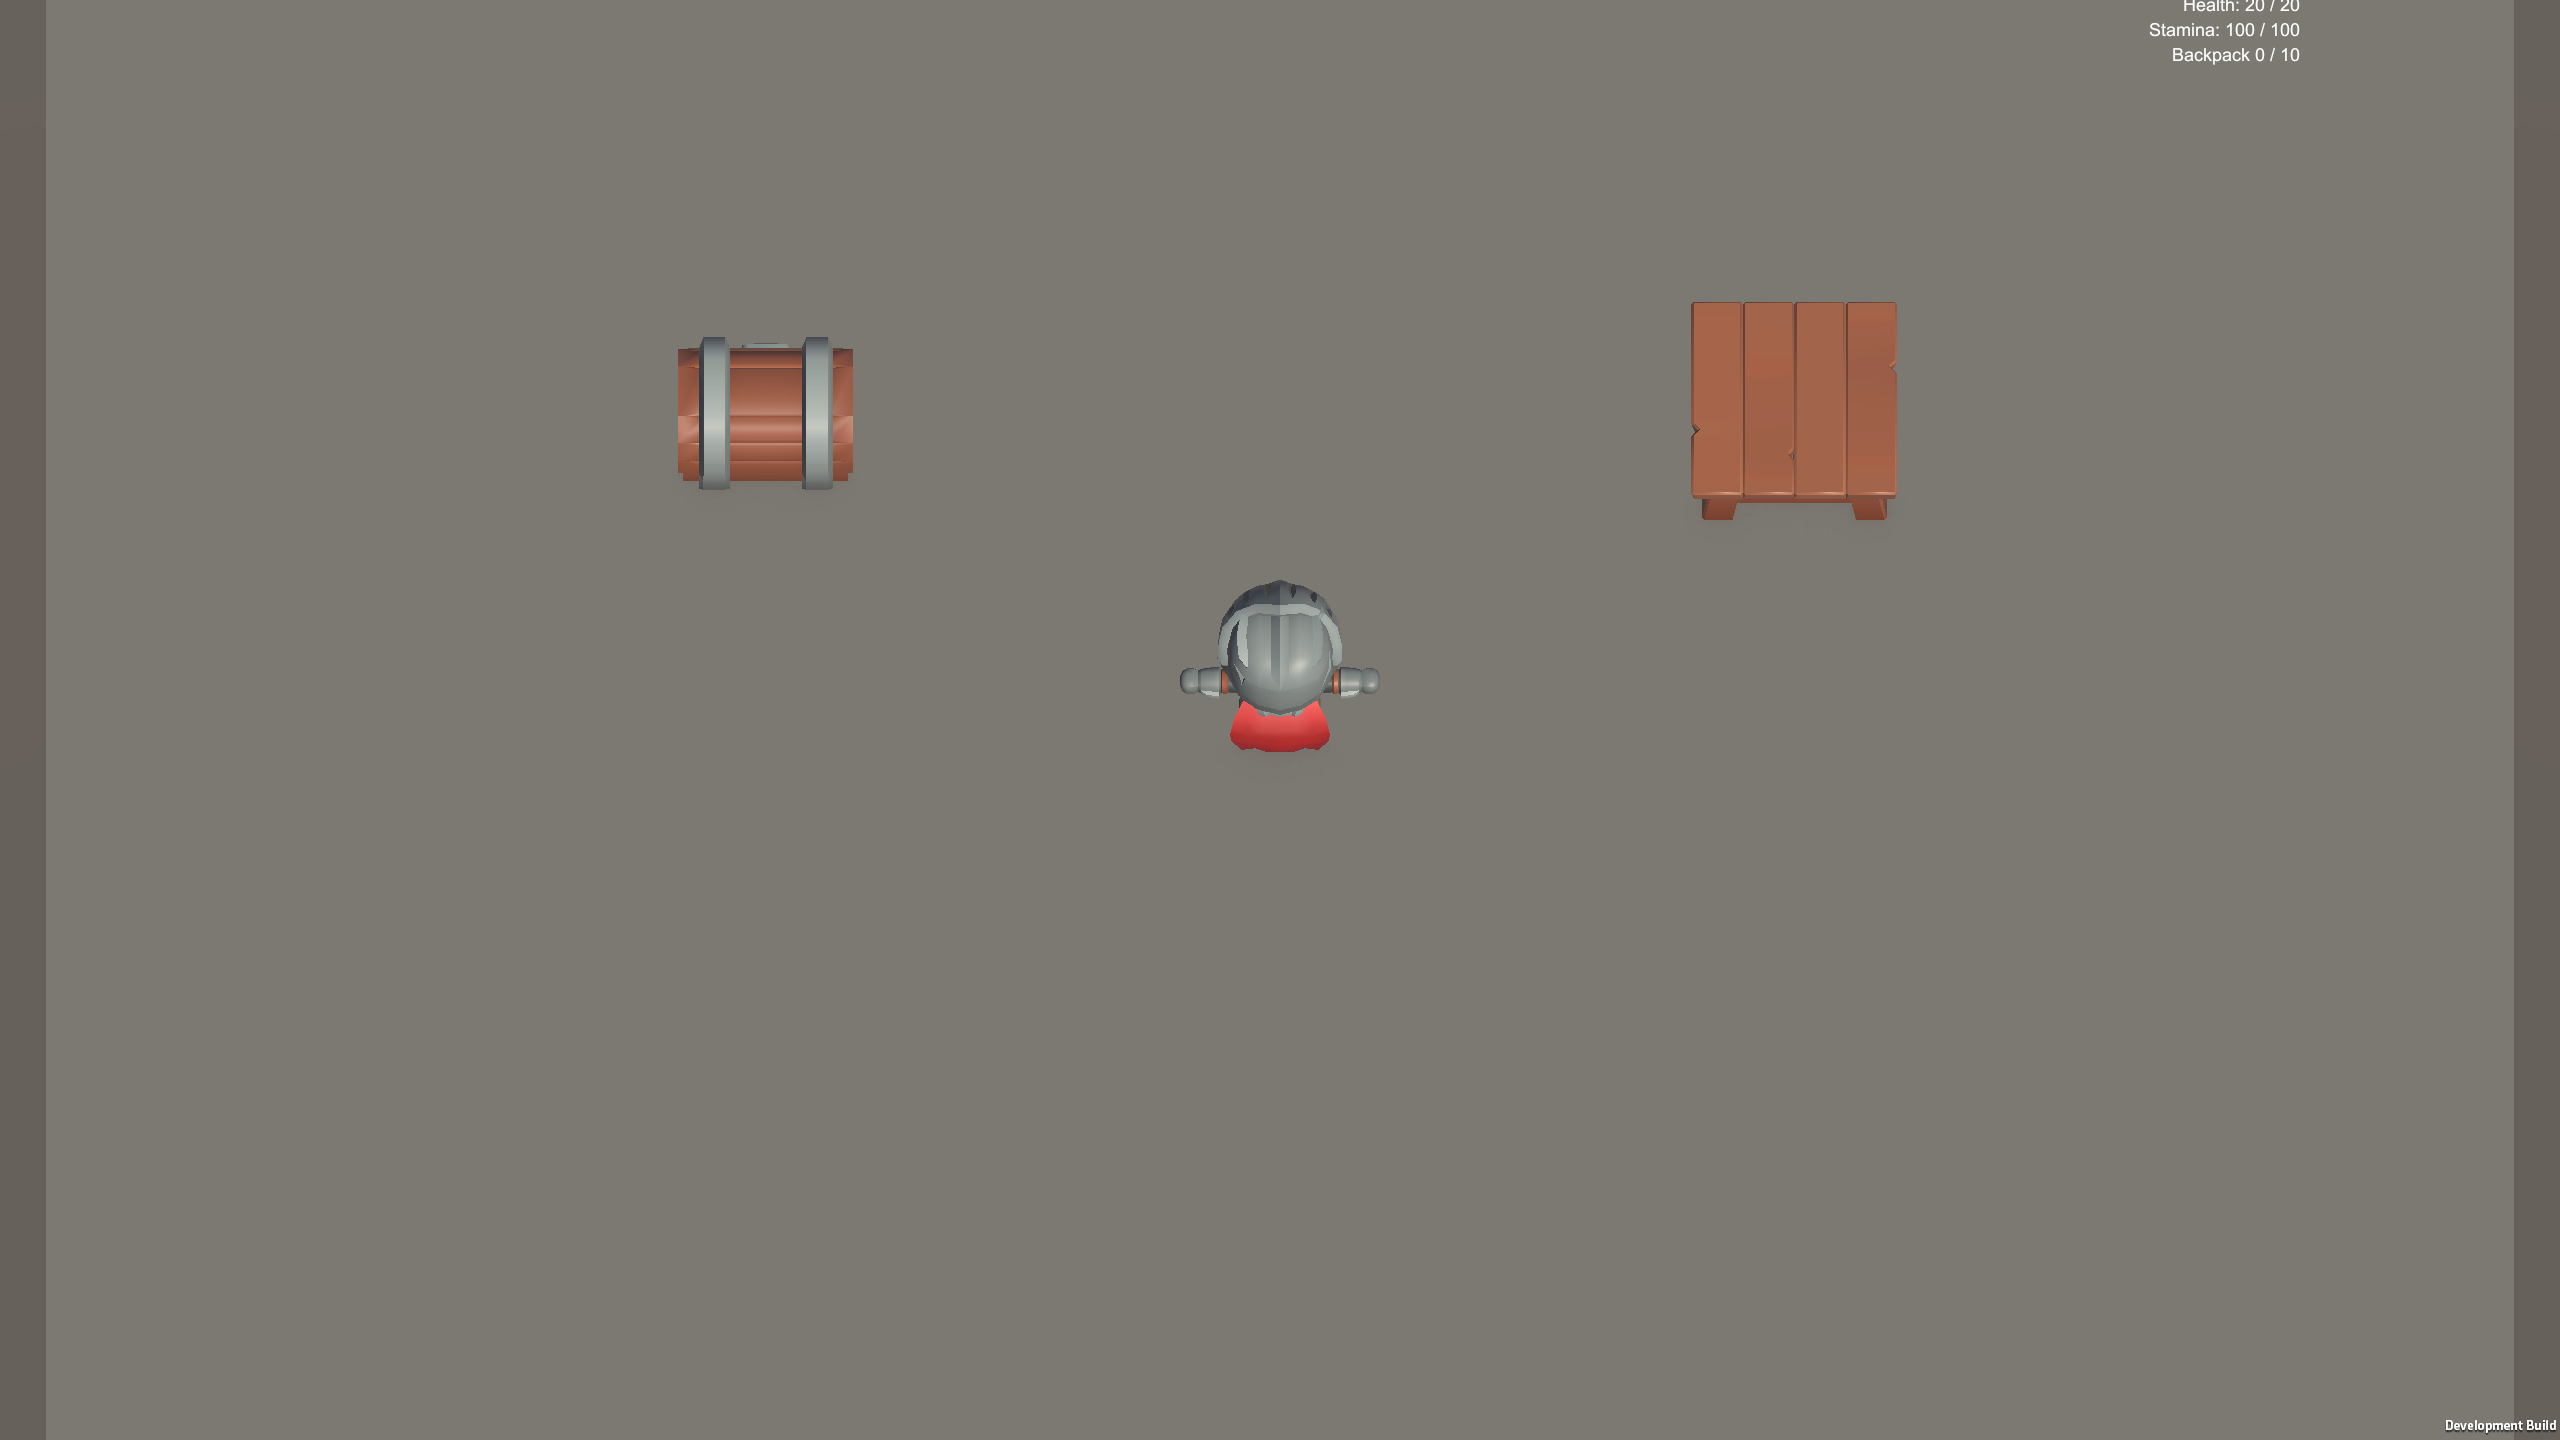
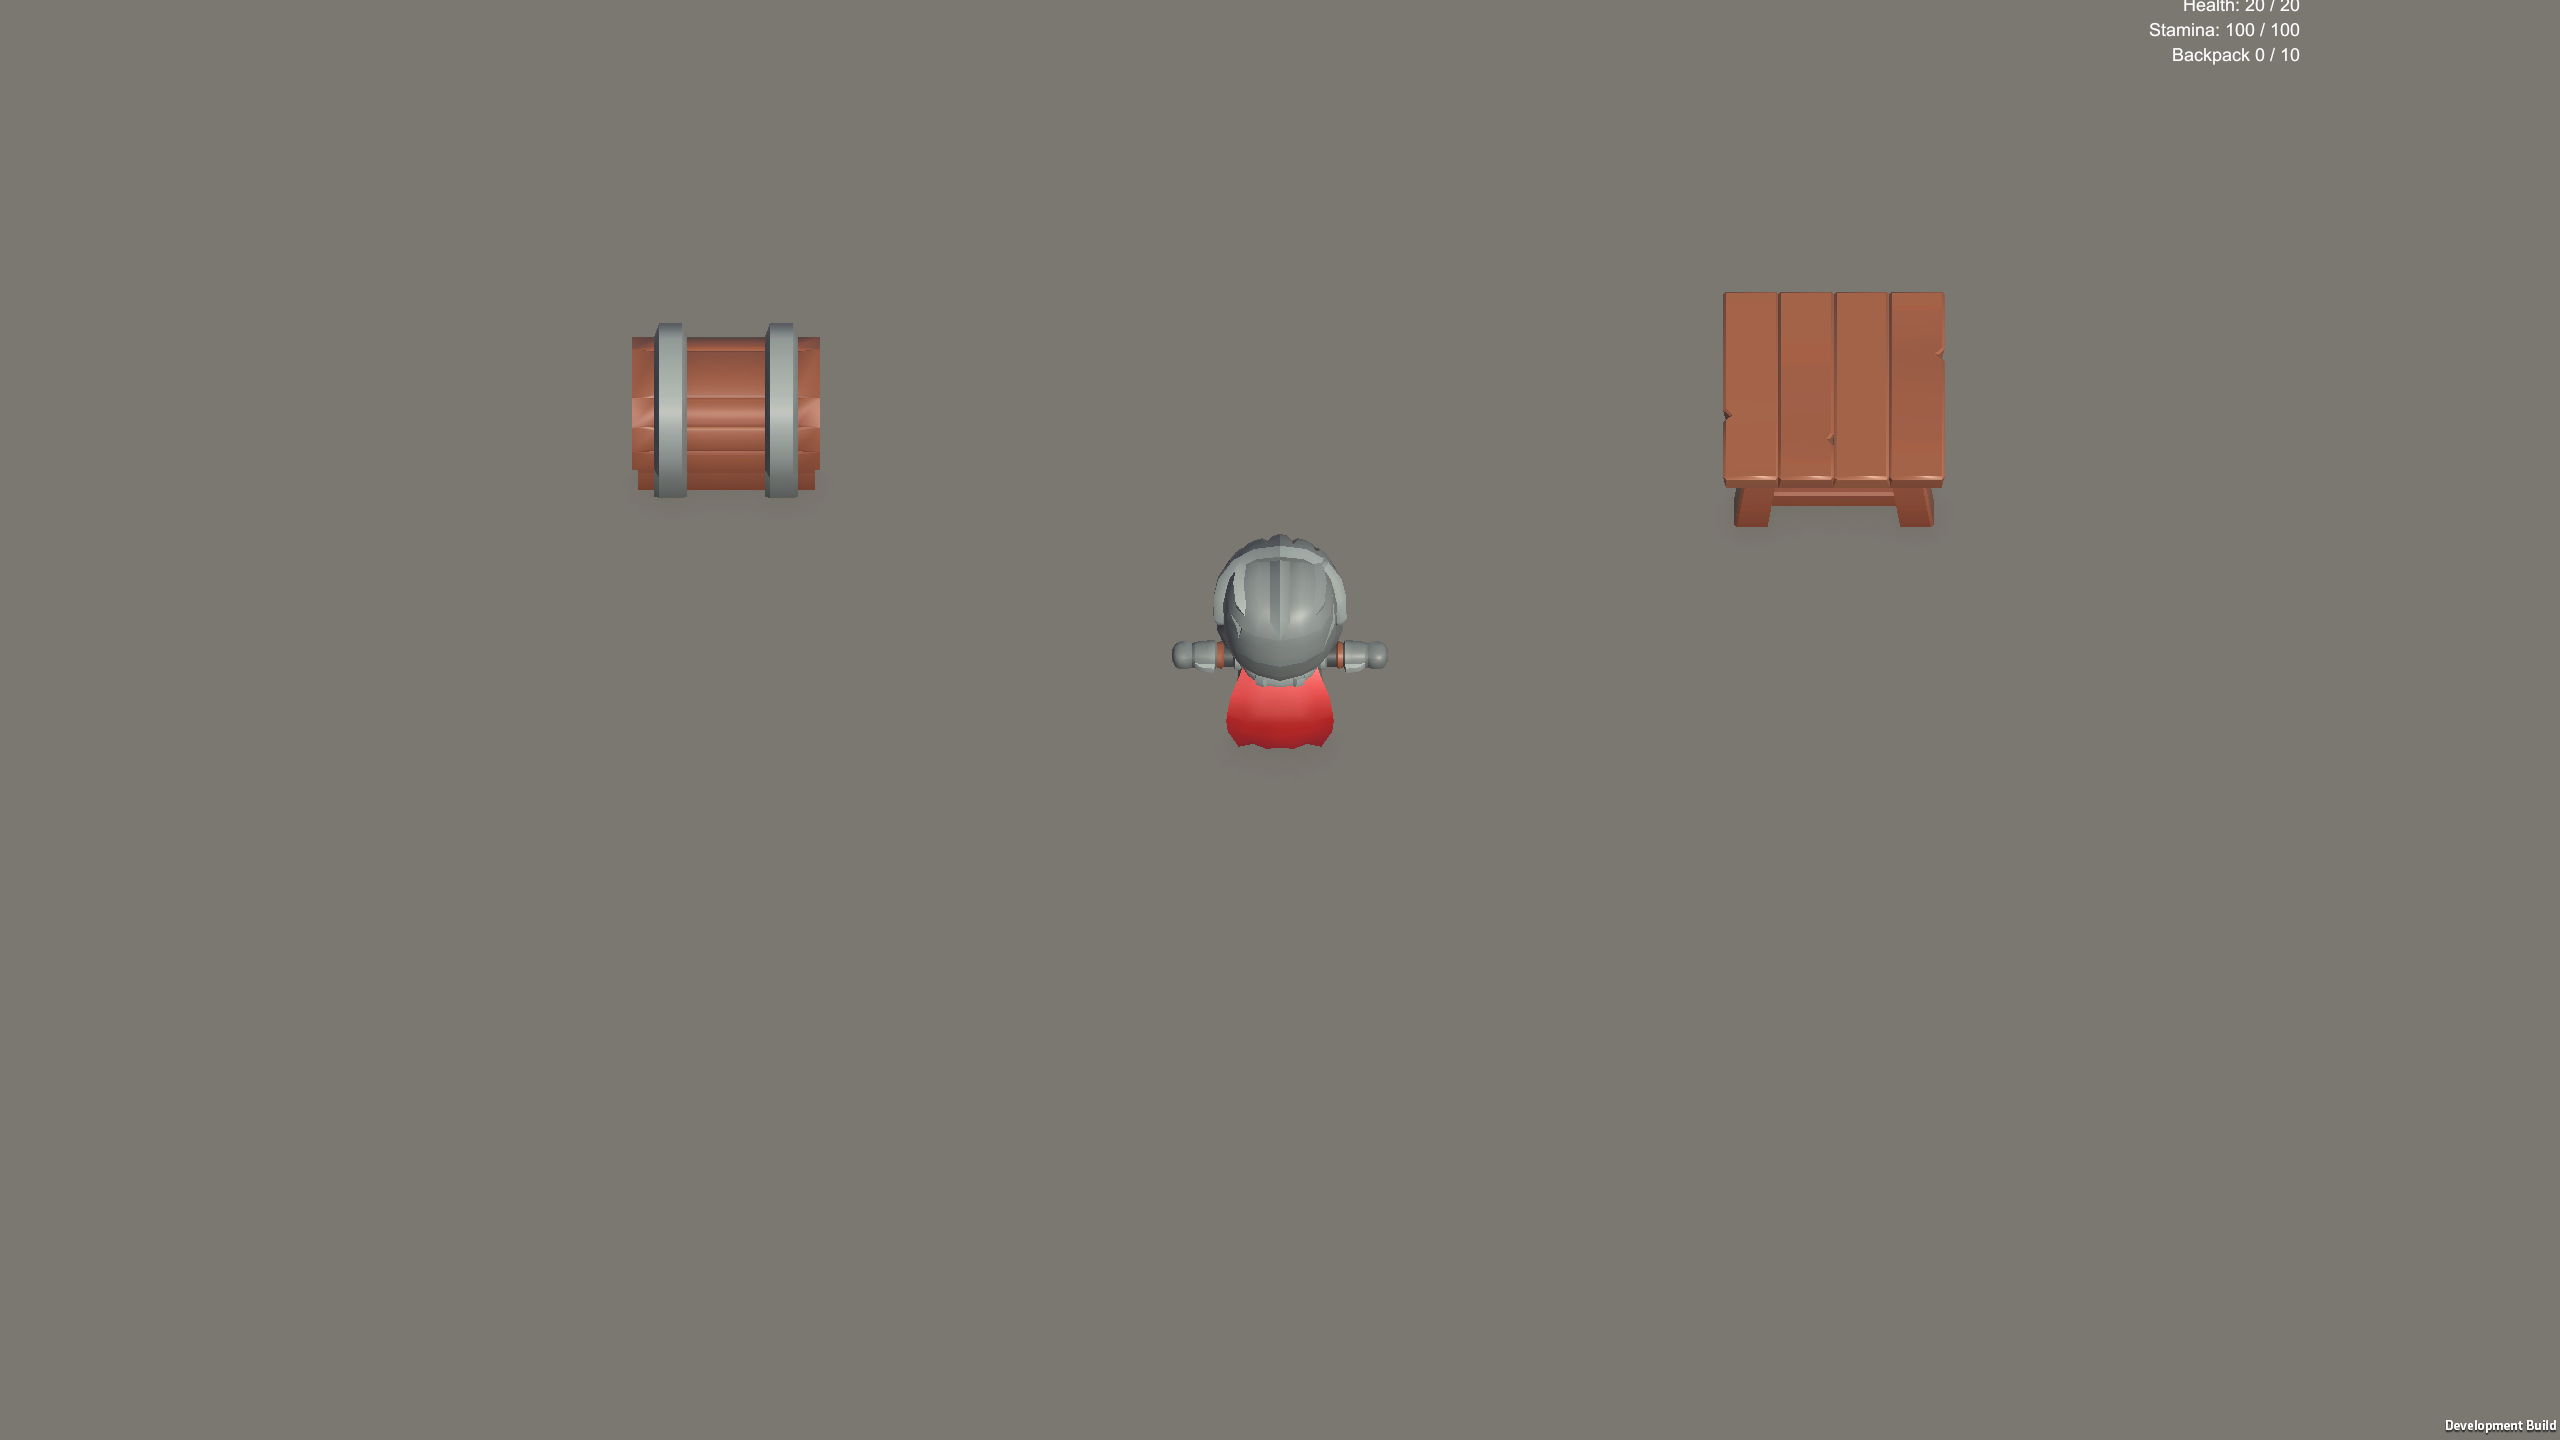
fix: tune top-down camera pitch to 58 degrees
Pitch 70 (previous default) read as near bird's-eye: lost the
player's front/body, and chest/table volume flattened out -- too far
from the Moonlighter-style 3/4 top-down reference.

Re-tested pitch 55/58/60/62 at yaw 0 (unchanged, still straight/no
diagonal) with orthoSize and distance held constant for a fair
comparison via CameraPresetTool.CaptureStraightPitchPresets. 58 keeps
the clearest front-of-character read of the four while still high
enough to hide the horizon and read as a straight top-down room.
Applied as the new default (pitch 58, yaw 0, distance 14, orthoSize
6.5) to PrototypeBase.unity and PrototypeDungeon.unity.

Changed region(s): [[0.6562, 0.1875, 0.7812, 0.375], [0.25, 0.2188, 0.3438, 0.3438], [0.4688, 0.375, 0.5312, 0.5312]]

diff --git a/Assets/_Project/Scripts/Editor/CameraPresetTool.cs b/Assets/_Project/Scripts/Editor/CameraPresetTool.cs
@@ -57,6 +57,33 @@ namespace RestosDaMasmorra.EditorTools
             Debug.Log("CameraPresetTool: captured top-down presets A/B/C/D.");
         }
 
+        // Pitch-only comparison at fixed yaw 0 / orthoSize: 70 read as near-bird's-eye (lost
+        // the player's front/body, chest/table volume flattened), so re-testing a lower
+        // pitch band with everything else held constant for a fair side-by-side.
+        public static void CaptureStraightPitchPresets()
+        {
+            EditorSceneManager.OpenScene("Assets/_Project/Scenes/PrototypeBase.unity", OpenSceneMode.Single);
+
+            GameObject player = GameObject.FindGameObjectWithTag("Player");
+            Camera cam = Camera.main;
+            IsoCameraFollow follow = cam != null ? cam.GetComponent<IsoCameraFollow>() : null;
+            if (player == null || cam == null || follow == null)
+            {
+                Debug.LogError("CameraPresetTool: missing Player/Camera/IsoCameraFollow in PrototypeBase.unity");
+                return;
+            }
+            follow.SetTarget(player.transform);
+
+            const float orthoSize = 6.5f;
+            const float distance = 14f;
+            Capture(follow, cam, "Straight_55", 55f, 0f, distance, orthoSize, "Docs/Validation/Camera_Straight_55.png");
+            Capture(follow, cam, "Straight_58", 58f, 0f, distance, orthoSize, "Docs/Validation/Camera_Straight_58.png");
+            Capture(follow, cam, "Straight_60", 60f, 0f, distance, orthoSize, "Docs/Validation/Camera_Straight_60.png");
+            Capture(follow, cam, "Straight_62", 62f, 0f, distance, orthoSize, "Docs/Validation/Camera_Straight_62.png");
+
+            Debug.Log("CameraPresetTool: captured straight top-down pitch presets 55/58/60/62.");
+        }
+
         static void Capture(IsoCameraFollow follow, Camera cam, string label, float pitch, float yaw, float distance, float orthoSize, string path)
         {
             follow.ApplyPreset(pitch, yaw, distance, orthoSize);
@@ -70,15 +97,14 @@ namespace RestosDaMasmorra.EditorTools
             ApplyToScene("Assets/_Project/Scenes/PrototypeDungeon.unity", pitch, yaw, distance, orthoSize);
         }
 
-        // Chosen preset (see Docs/Validation/Camera_TopDown_*.png comparison): straight
-        // top-down (yaw 0) so room walls stay axis-aligned on screen instead of reading as a
-        // rotated isometric diamond. Preset D (pitch 70, orthoSize 7.0) was picked over
-        // A/B/C because it's the first one wide enough to show the room's rectangular
-        // boundary on screen (A/B were zoomed in so tight the walls never entered frame),
-        // while pitch 70 keeps it closer to true top-down without losing wall volume.
+        // Chosen preset (see Docs/Validation/Camera_Straight_*.png comparison): pitch 70 read
+        // as near-bird's-eye -- lost the player's front/body, chest/table volume flattened.
+        // Re-tested 55/58/60/62 at yaw 0, orthoSize 6.5, distance 14 (fixed for a fair
+        // comparison); 58 keeps the clearest front-of-character read while still being high
+        // enough to hide the horizon and read as a straight top-down room.
         public static void ApplyChosenFinal()
         {
-            ApplyFinalPreset(70f, 0f, 14f, 7.0f);
+            ApplyFinalPreset(58f, 0f, 14f, 6.5f);
             CaptureFinal();
         }
 

diff --git a/Assets/_Project/Scripts/Player/IsoCameraFollow.cs b/Assets/_Project/Scripts/Player/IsoCameraFollow.cs
@@ -12,10 +12,10 @@ namespace RestosDaMasmorra.Player
     public class IsoCameraFollow : MonoBehaviour
     {
         [SerializeField] Transform target;
-        [SerializeField] float pitch = 70f;
+        [SerializeField] float pitch = 58f;
         [SerializeField] float yaw = 0f;
         [SerializeField] float distance = 14f;
-        [SerializeField] float orthographicSize = 7.0f;
+        [SerializeField] float orthographicSize = 6.5f;
         [SerializeField] float followSmoothTime = 0.12f;
 
         Vector3 followVelocity;
